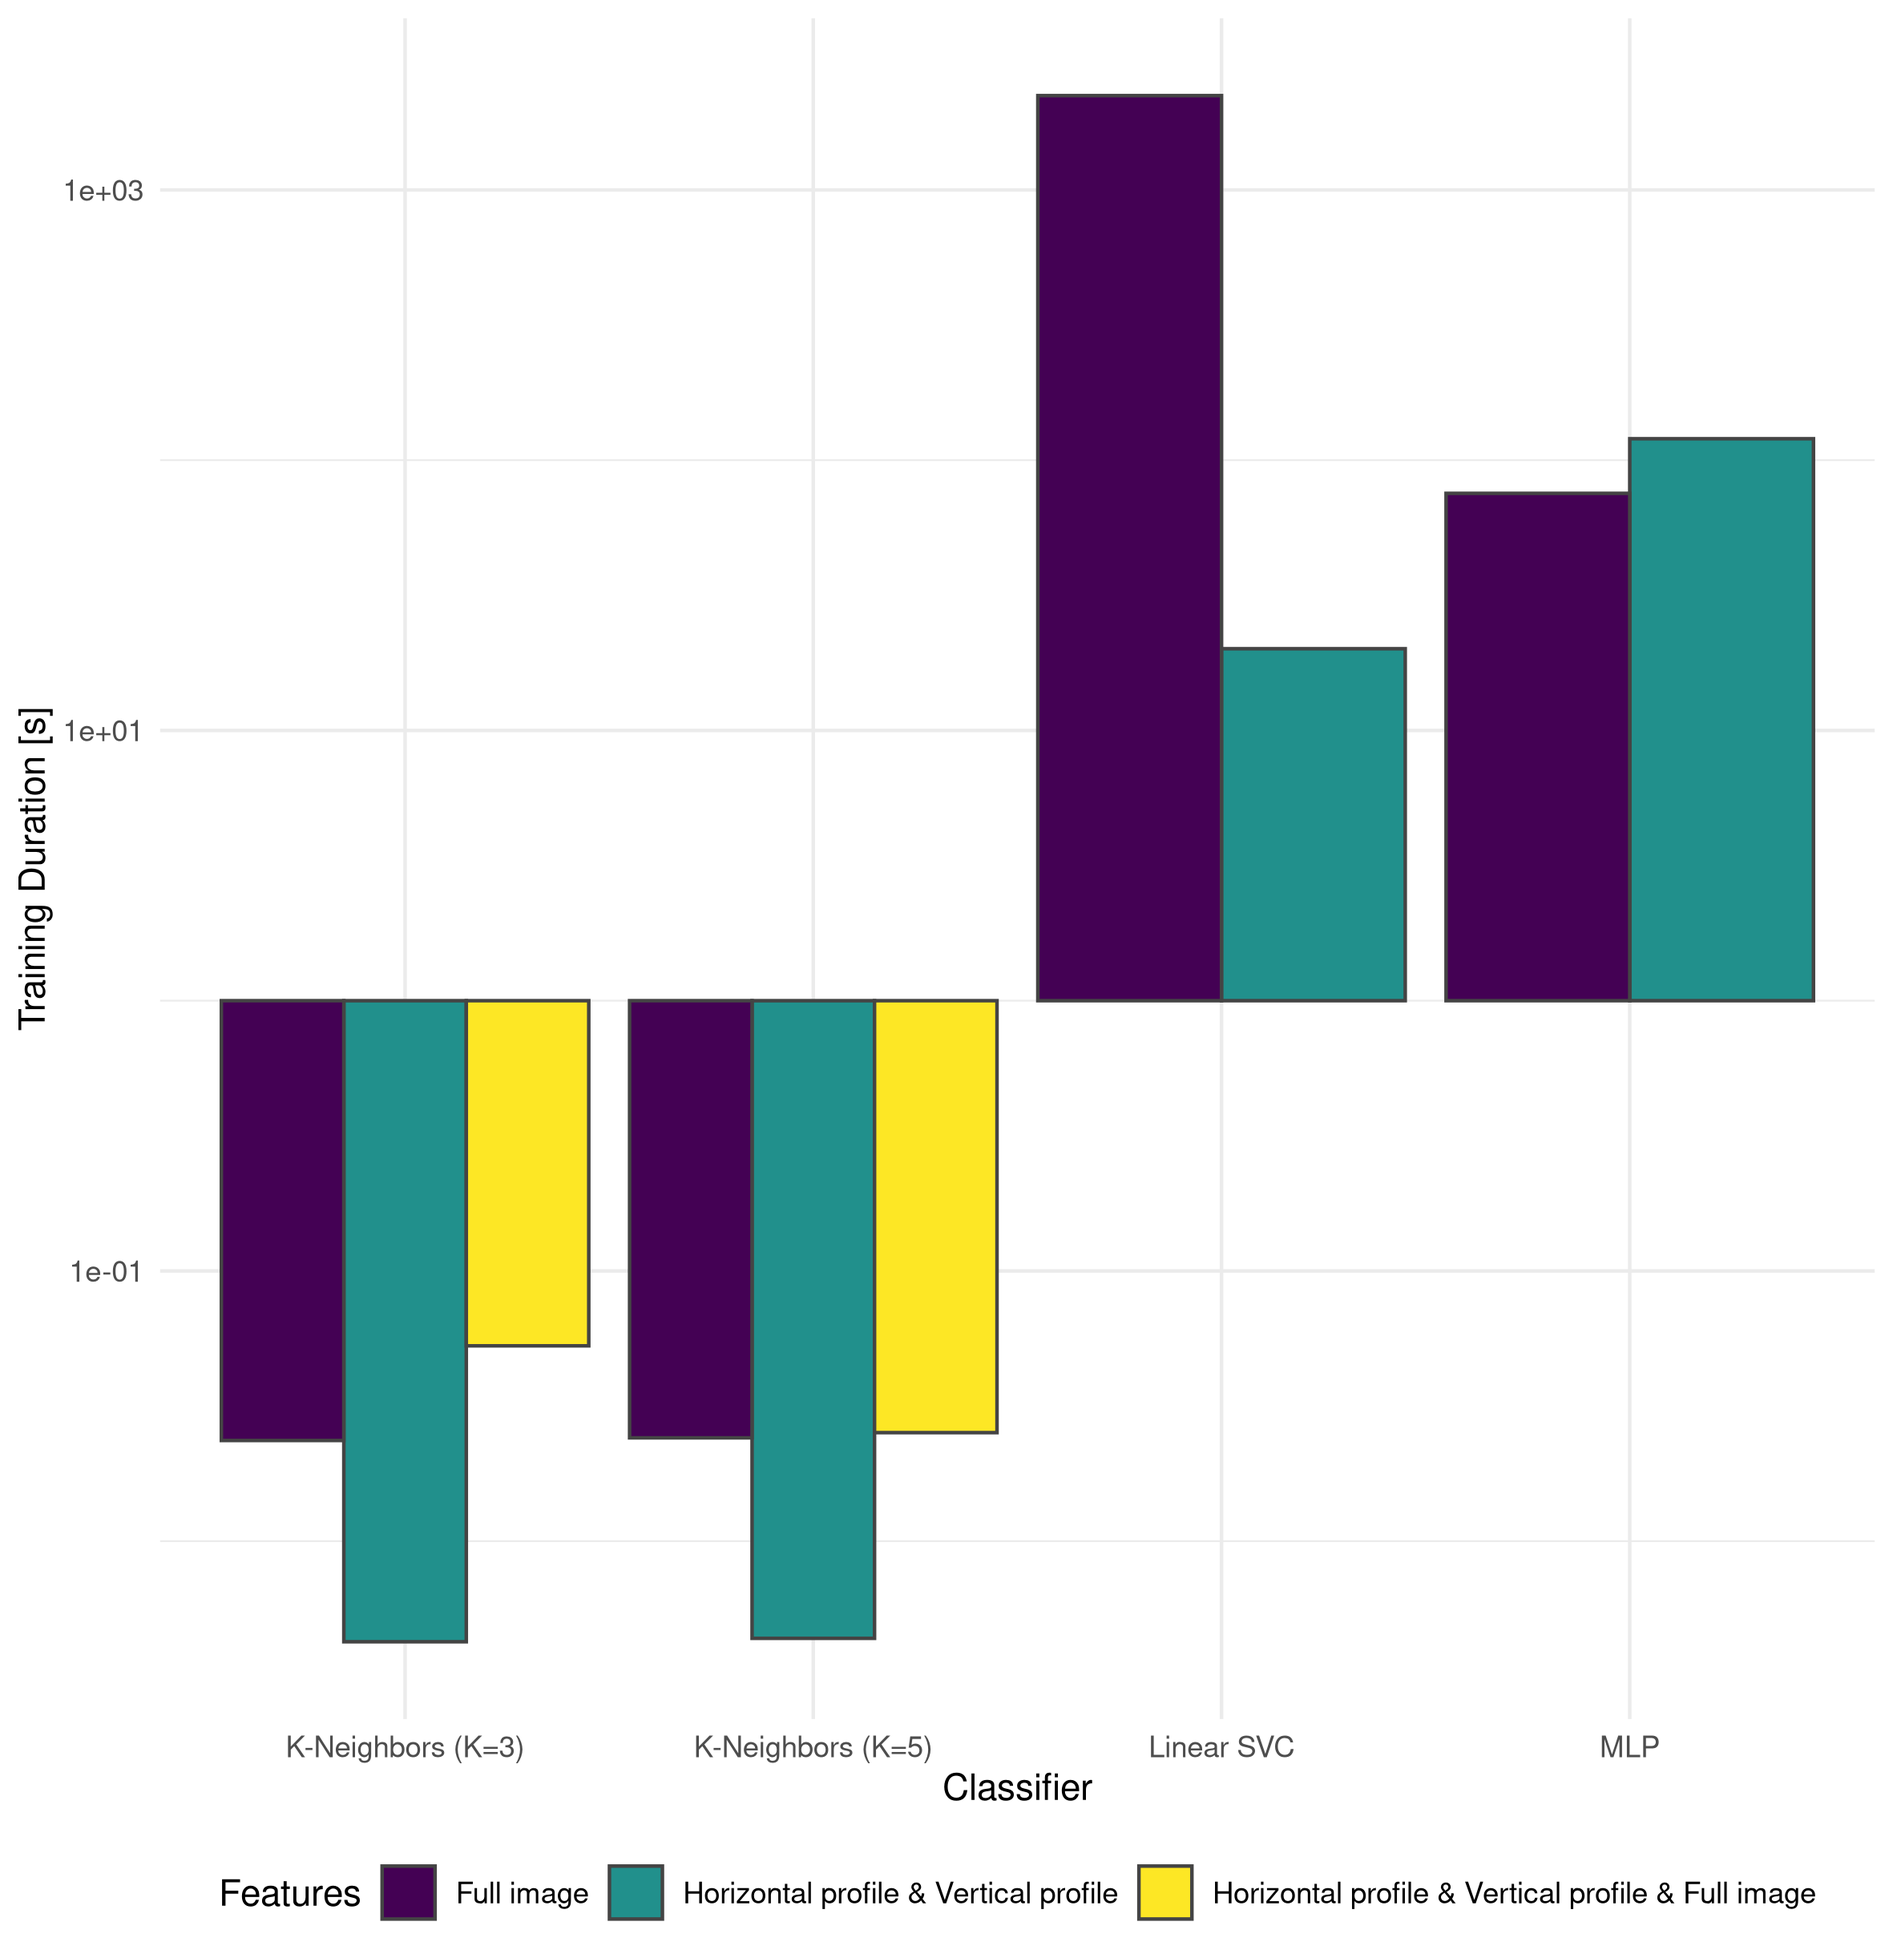
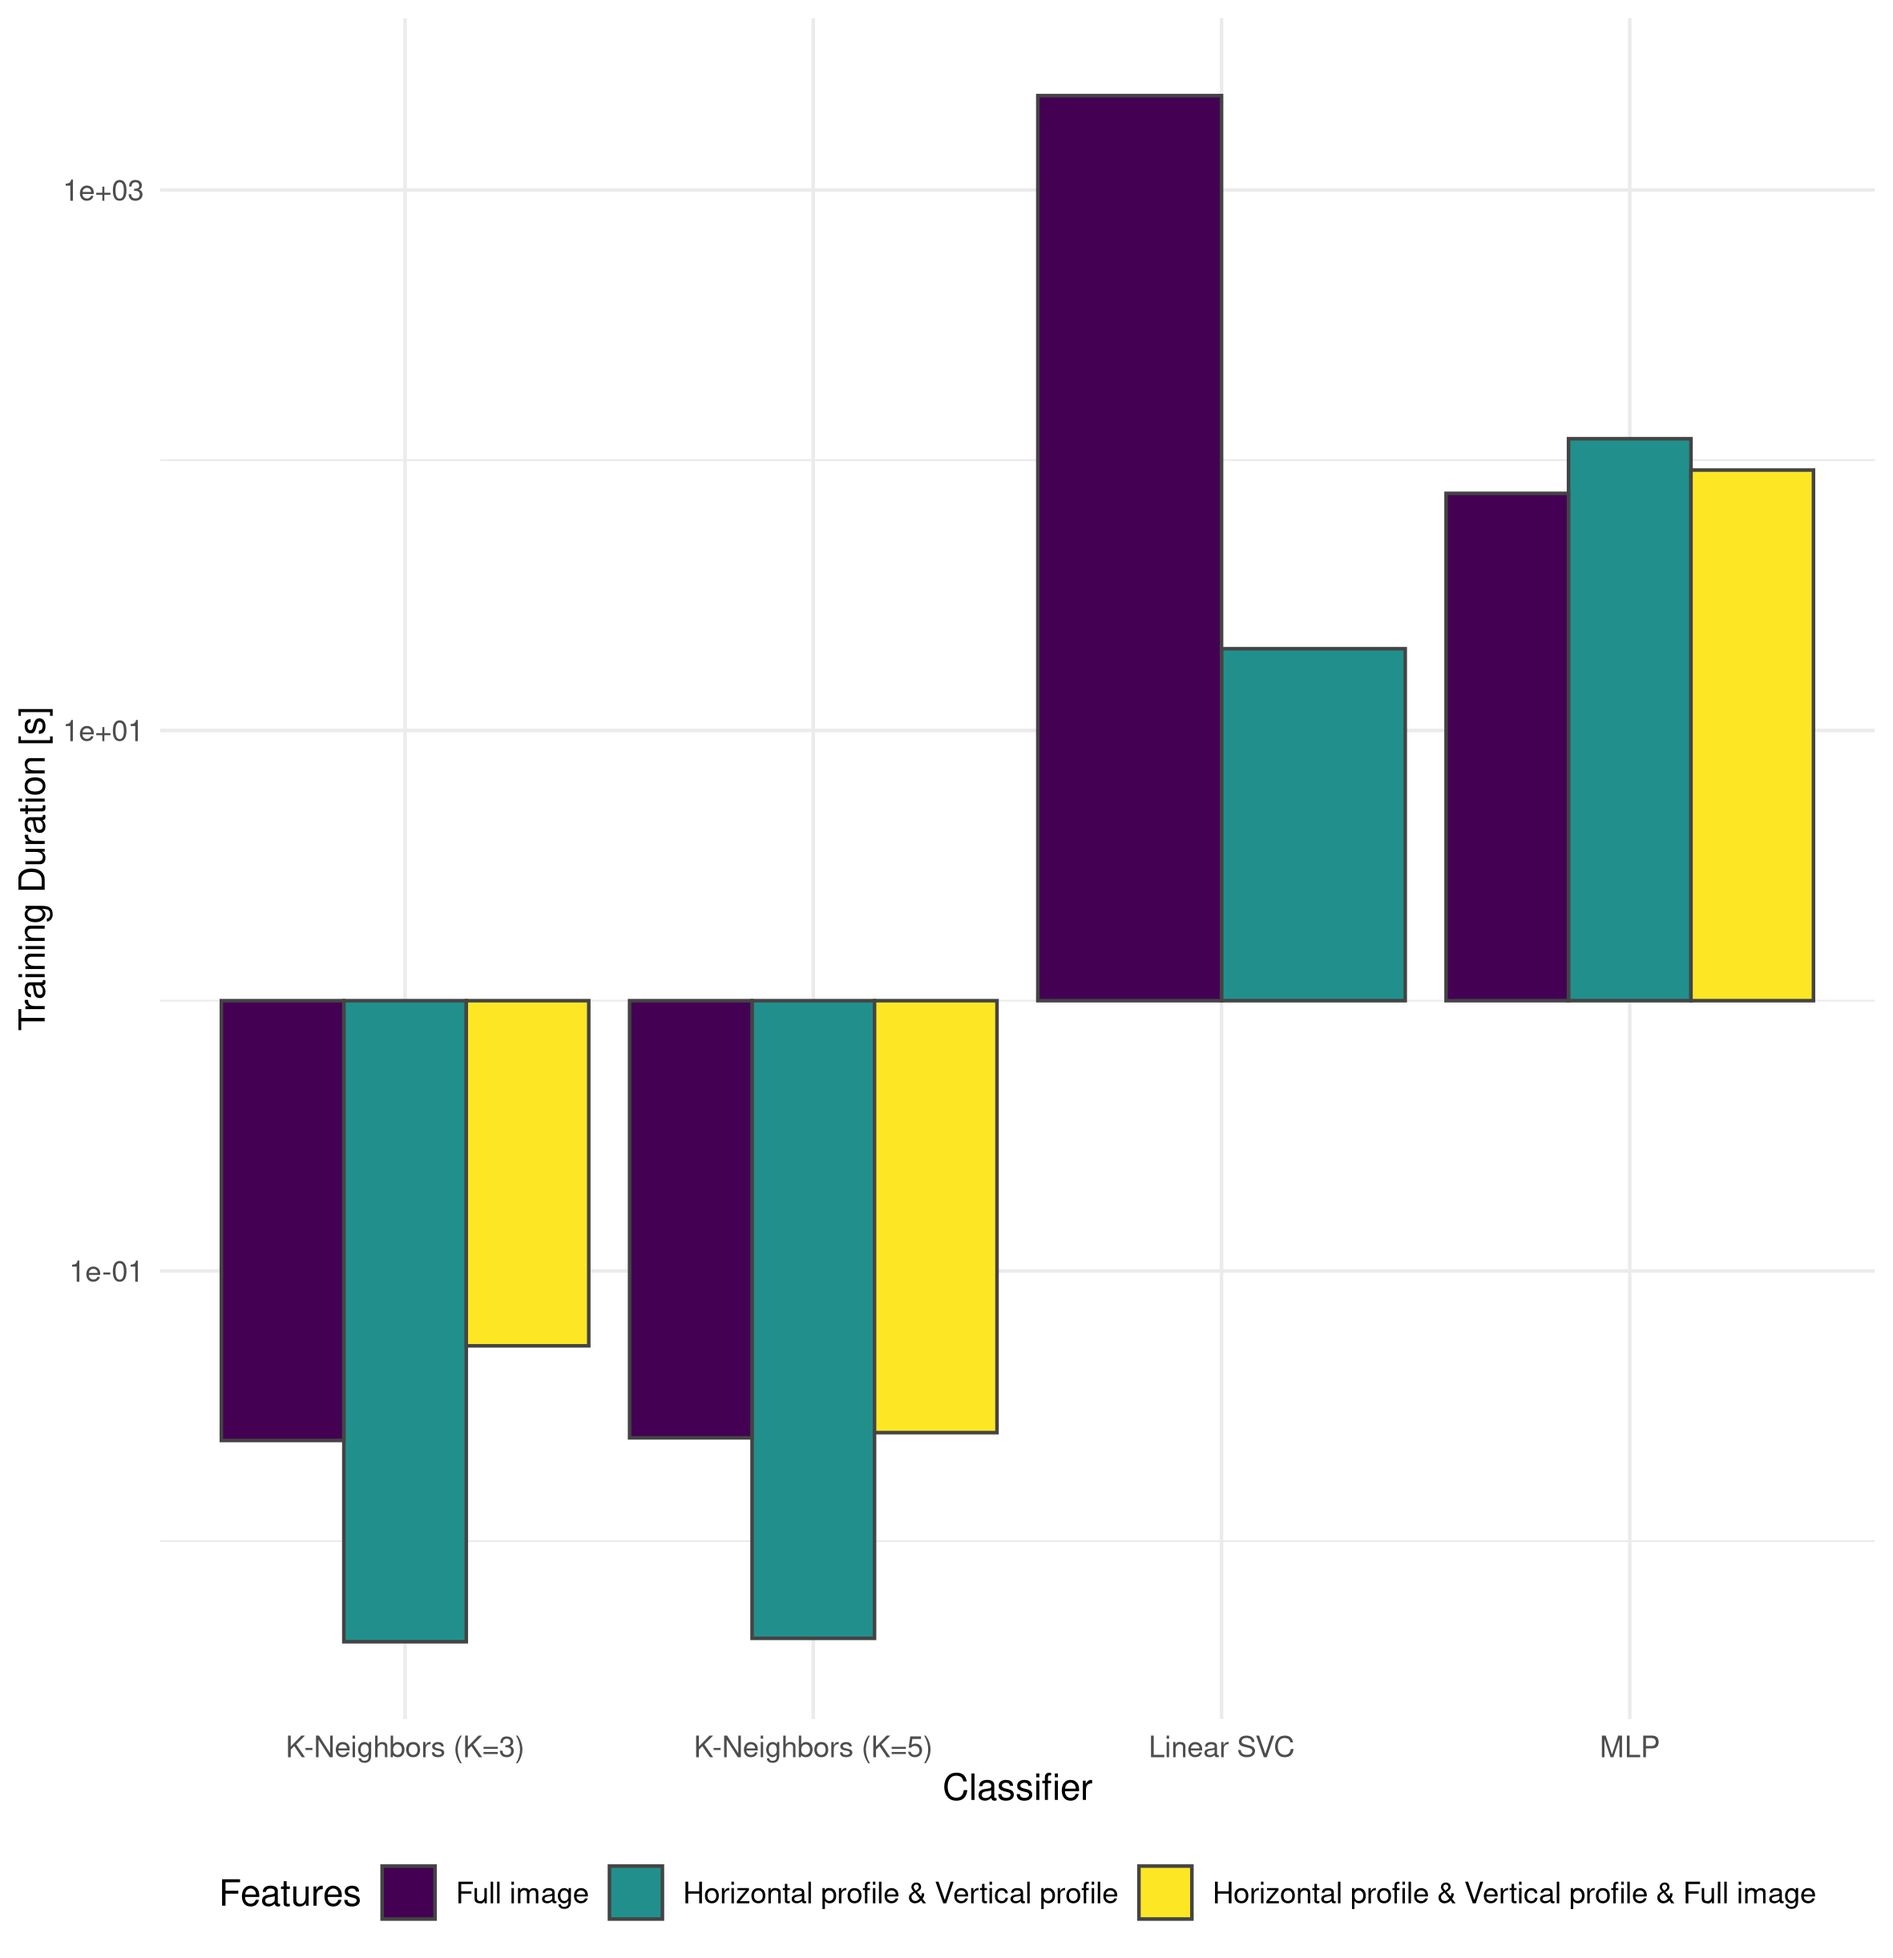
Finish series 2.

Changed region(s): [[0.8036, 0.2178, 0.9581, 0.5289]]

diff --git a/exercises/02_classification/doc/series.tex b/exercises/02_classification/doc/series.tex
@@ -292,20 +292,20 @@ vector, of which the euclidean distance is calculated:
   \label{alg:euclidean_distance}
 \end{algo}
 
-\section{Mode of operation}
+\section{Custom classifier}
 
 \begin{itemize}
 		\item In a first step, the classifier is trained on the training set
-				with the set of chosen features. The features of each test
-				image are then combined into one class representative by the
-				mean operation.
+				with the set of chosen features. The features are extracted
+				from each sample, and a class representative calculated as the
+				average feature vector over all samples.
 
-		\item The resulting class representatives are then used to gauge the
-				`distance' of each to-be-classified image from the class
-				representative. With $n$ features and 10 classes this leads to
-				a matrix $(d_{ij})$ of shape $(10, n)$, where $d_{ij}$ is the
-				`distance' of the classified image - in terms of feature $j$ -
-				from class $i$.
+		\item In the testing step, the class representatives are then used to
+				gauge the `distance' of each to-be-classified image from the
+				class representative. With $n$ features and 10 classes this
+				leads to a matrix $(d_{ij})$ of shape $(10, n)$, where $d_{ij}$
+				is the `distance' of the classified image - in terms of feature
+				$j$ - from class $i$.
 
 		\item These are then combined into one distance per class by either the
 				mean, or the minimum, operation.
@@ -322,7 +322,7 @@ A more elaborate approach would be to have each feature report a `certainity'
 value per class, of how certain it is that the to-be-classified image belongs
 to this class.
 
-\section{Results}
+\section{Results with custom classifier}
 
 \subsection{Single features}
 
@@ -341,7 +341,7 @@ single digit.
 
 \begin{figure}[h]
         \centering
-		\includegraphics[width=0.8\textwidth]{resources/features_single.png}
+		\includegraphics[width=0.8\textwidth]{../resources/features_single.png}
 		\caption{Evaluation of single features}
 		\label{fig:evaluation_single}
 \end{figure}
@@ -360,7 +360,7 @@ performed consistently worse.
 
 \begin{figure}[h]
         \centering
-		\includegraphics[width=0.8\textwidth]{resources/features_profiles.png}
+		\includegraphics[width=0.8\textwidth]{../resources/features_profiles.png}
 		\caption{Evaluation of horizontal \& vertical profile combinations}
 		\label{fig:evaluation_profiles}
 \end{figure}
@@ -380,7 +380,7 @@ nearly as good as - but always a bit worse than - the euclidean distance alone.
 
 \begin{figure}[h]
         \centering
-		\includegraphics[width=0.8\textwidth]{resources/features_top.png}
+		\includegraphics[width=0.8\textwidth]{../resources/features_top.png}
 		\caption{Evaluation of top combinations}
 		\label{fig:evaluation_top}
 \end{figure}
@@ -410,5 +410,150 @@ distance.
 		\label{tbl:evaluation}
 		\caption{Feature statistics}
 \end{table}
+
+\section{Results with scikit-learn classifiers}
+
+In a last step, some feature sets were tested in combination with standard
+classifiers offered by the scikit-learn library. The following classifiers were
+evaluated:
+
+\begin{itemize}
+		\item K-Neighbors classifier
+		\item Linear SVC
+		\item Multi-layer perceptron classifier
+\end{itemize}
+
+In combination with the following feature sets:
+
+\begin{itemize}
+		\item Horizontal \& vertical profile
+		\item Raw pixel values
+		\item Horizontal \& vertical profile \& raw pixel values
+\end{itemize}
+
+Only feature sets which had performed well with the custom classifier were
+considered, to not bloat this any more.
+
+The combination of all three features was not tested with the K-Neighbors
+classifier, due to training times exceeding half an hour.
+
+\subsection{Standardization}
+
+Both training as well as test data was standardized, that is transformed such
+that its mean was $0$ and its variance $1$. This is required for proper
+training with some models such as support-vector classifiers, and does not hurt
+accuracy with other classifiers.
+
+\subsection{Runtime}
+
+\subsubsection{Feature extraction}
+
+Runtime for feature extraction is independent from the choice of classifier,
+and as such was the same for all. Feature extraction took an average of
+\SI{3.5}{\s}, though this also involved disk access which is likely to have
+dominated the metric.
+
+\subsubsection{Training the classifier}
+
+The runtime to train the various classifiers on the full training set of 48000
+samples is shown in figure \ref{fig:training_time}.
+
+Training the K-Neighbors classifier took only fractions of a second which is to
+be expected, as its training phase merely consists of storing the training
+data. Training time of the linear SVC was highly dependant on the number of
+features, with training on the full pixel data taking roughly half an hour.
+Training the MLP was largely independant of the number of features, taking
+around \SI{100}{\s} consistently.
+
+\begin{figure}[h]
+        \centering
+		\includegraphics[width=0.8\textwidth]{../resources/scikit_training_timings.png}
+		\caption{Training time}
+		\label{fig:training_time}
+\end{figure}
+
+\subsubsection{Prediction}
+
+Figure \ref{fig:prediction_time} shows the average prediction time per test
+sample. The K-neighbors classifier took around \SI{1e-3}{\s} per sample, with
+the linear SVC and MLP classifiers being about three to four orders of
+magnitude faster.
+
+\begin{figure}[h]
+        \centering
+		\includegraphics[width=0.8\textwidth]{../resources/scikit_prediction_timings.png}
+		\caption{Prediction time}
+		\label{fig:prediction_time}
+\end{figure}
+
+\subsection{Prediction accuracy}
+
+Figure \ref{fig:scikit_accuracy} shows prediction accuracies of the evaluated
+classifiers and feature sets. Generally the MLP classifier performed the best
+and the linear SVC the worst, with the K-Neighbors classifier performing
+independent of the number of neighbors to consider.
+
+As with the custom classifier from the first part of the exercise, providing
+the classifiers the full set of pixels to work with - rather than aggregations
+in the form of the horizontal and vertical profiles - resulted in the highest
+accuracies. As with the custom classifier, providing the profiles in addition
+to the full image data did not improve accuracy, and sometimes even lowered it.
+
+It should also be noted that - even with only the horizontal and vertical
+profiles available - these classifiers achieved mean accuracies of
+\SIrange{75}{91}{\percent}, significantly outperforming the \SI{64}{\percent}
+accuracy of the custom classifier.
+
+Table \ref{tbl:scikit_accuracy} finally lists average, minimum and maximum
+accuracy of each classifier and feature set.
+
+\begin{figure}[h]
+        \centering
+		\includegraphics[width=\textwidth]{../resources/scikit_overview.png}
+		\caption{Prediction accuracy}
+		\label{fig:scikit_accuracy}
+\end{figure}
+
+\begin{table}
+		\begin{tabular}{lllll}
+				\toprule
+				Classifier & Features & Average & Worst & Best \\
+				\midrule
+				K-Neighbours ($K = 3$) & Full image & \SI{94}{\percent} & \SI{90}{\percent} & \SI{99}{\percent} \\
+				K-Neighbours ($K = 3$) & Horizontal \& vertical profile & \SI{87}{\percent} & \SI{66}{\percent} & \SI{99}{\percent} \\
+				K-Neighbours ($K = 3$) & Horizontal \& vertical profile \& full image & \SI{94}{\percent} & \SI{90}{\percent} & \SI{99}{\percent} \\
+				K-Neighbours ($K = 5$) & Full image & \SI{94}{\percent} & \SI{90}{\percent} & \SI{99}{\percent} \\
+				K-Neighbours ($K = 5$) & Horizontal \& vertical profile & \SI{87}{\percent} & \SI{66}{\percent} & \SI{99}{\percent} \\
+				K-Neighbours ($K = 5$) & Horizontal \& vertical profile \& full image & \SI{94}{\percent} & \SI{90}{\percent} & \SI{99}{\percent} \\
+				Linear SVC & Full image & \SI{91}{\percent} & \SI{85}{\percent} & \SI{98}{\percent} \\
+				Linear SVC & Horizontal \& vertical profile & \SI{76}{\percent} & \SI{48}{\percent} & \SI{92}{\percent} \\
+				MLP & Full image & \SI{97}{\percent} & \SI{96}{\percent} & \SI{99}{\percent} \\
+				MLP & Horizontal \& vertical profile & \SI{92}{\percent} & \SI{84}{\percent} & \SI{98}{\percent} \\
+				MLP & Horizontal \& vertical profile \& Full image & \SI{96}{\percent} & \SI{94}{\percent} & \SI{98}{\percent} \\
+				\bottomrule
+		\end{tabular}
+		\label{tbl:evaluation}
+		\caption{Feature statistics}
+\end{table}
+
+\section{Conclusion}
+
+This has shown that, even with very basic features and a naive classifier,
+accuracy suitable for at least supporting a human operator can be achieved.
+Using actual industry-standard classifiers then provides prediction accuracy
+approaching levels which can be acceptable for unsupervised operation.
+
+It was shown to be beneficial to provide the classifiers access to the full
+image data rather than to aggregations if training time permits.
+
+Classifiers such as MLP have been shown to be performant enough that training
+on a large set can be done in a reasonable time on modern hardware, while
+simultaneously having good prediction accuracy.
+
+Prediction time has been low enough for all classifiers that it is of no
+concern.
+
+It is likely that prediction accuracy can be further improved by tuning model
+parameters, and suitably preprocessing data.
 
 \end{document}

diff --git a/exercises/02_classification/src/classification.py b/exercises/02_classification/src/classification.py
@@ -47,22 +47,22 @@ def main():
             #     'dim': (1,),
             #     'type': np.float64,
             # },
-            # {
-            #     'id': 'horizontal_profile',
-            #     'name': "Horizontal profile",
-            #     'f': f.extract_horizontal_profile,
-            #     'f_compare': f.compare_profiles,
-            #     'dim': (28,),
-            #     'type': np.uint8,
-            # },
-            # {
-            #     'id': 'vertical_profile',
-            #     'name': "Vertical profile",
-            #     'f': f.extract_vertical_profile,
-            #     'f_compare': f.compare_profiles,
-            #     'dim': (28,),
-            #     'type': np.uint8,
-            # },
+            {
+                'id': 'horizontal_profile',
+                'name': "Horizontal profile",
+                'f': f.extract_horizontal_profile,
+                'f_compare': f.compare_profiles,
+                'dim': (28,),
+                'type': np.uint8,
+            },
+            {
+                'id': 'vertical_profile',
+                'name': "Vertical profile",
+                'f': f.extract_vertical_profile,
+                'f_compare': f.compare_profiles,
+                'dim': (28,),
+                'type': np.uint8,
+            },
             {
                 'id': 'euclidean_distance',
                 'name': 'Euclidean distance',
@@ -85,12 +85,12 @@ def _scikit_classifiers(features):
     # classifier_type = 'LinearSVC'
 
     # - Set neighbour count for nn search
-    clsf = KNeighborsClassifier(n_neighbors=5)
-    classifier_type = 'KNeighbors[k=5]'
+    # clsf = KNeighborsClassifier(n_neighbors=5)
+    # classifier_type = 'KNeighbors[k=5]'
 
     # - Fix random seed
-    # clsf = MLPClassifier(random_state=42)
-    # classifier_type = 'MLP'
+    clsf = MLPClassifier(random_state=42)
+    classifier_type = 'MLP'
 
     extraction_time, training_time, sample_count = _train_scikit_classifier(clsf, features)
 
